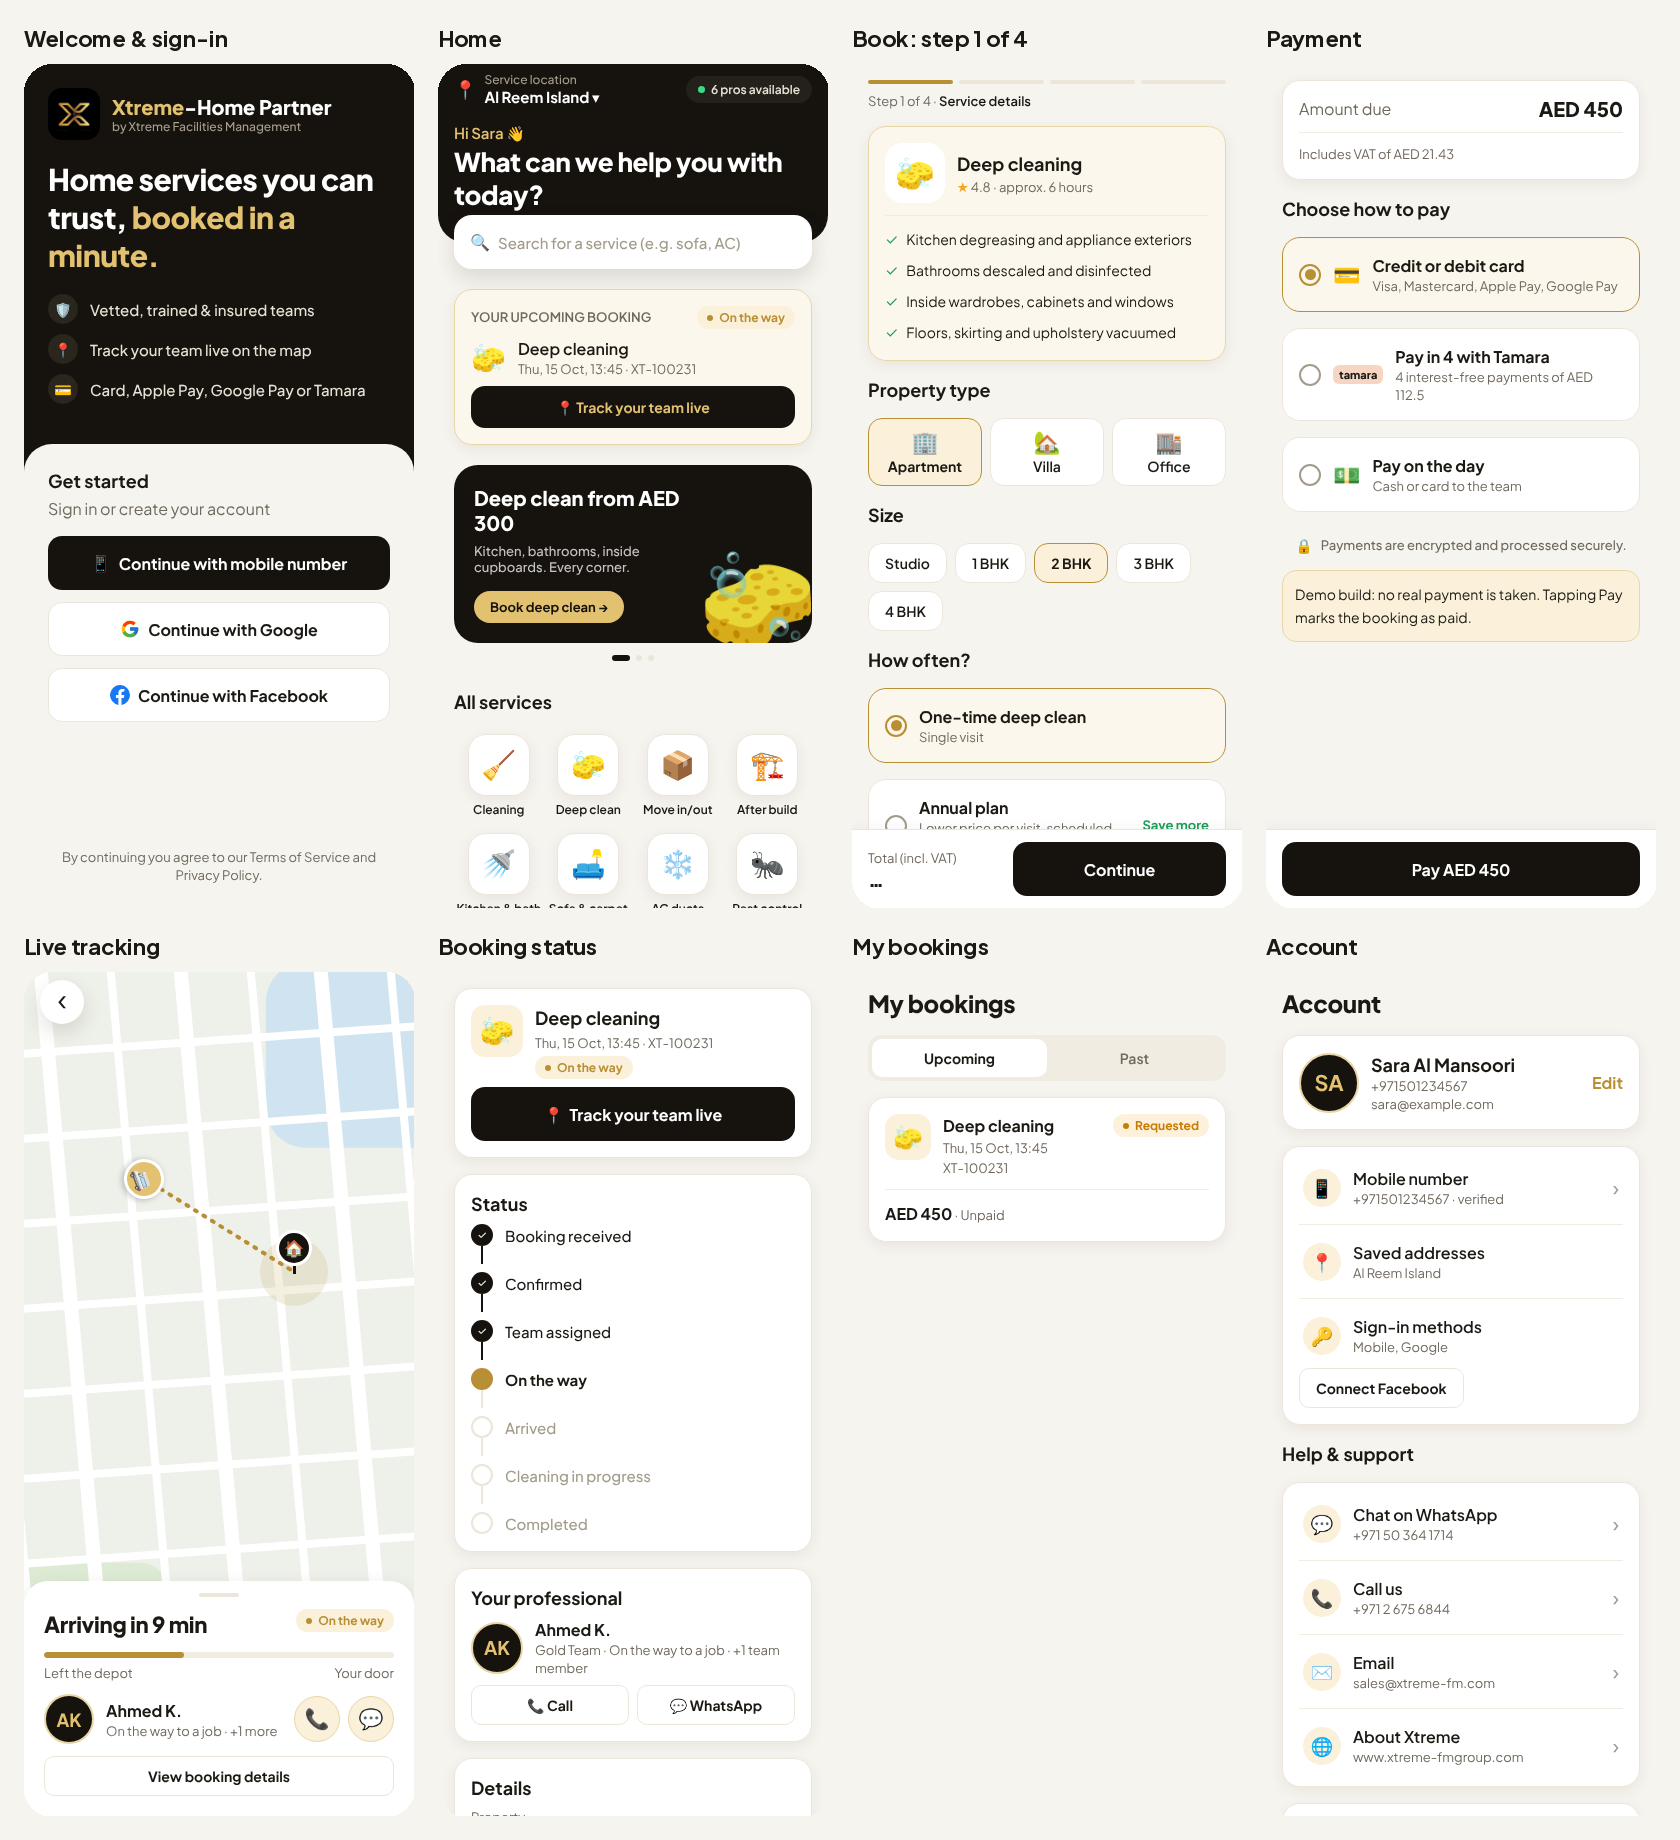
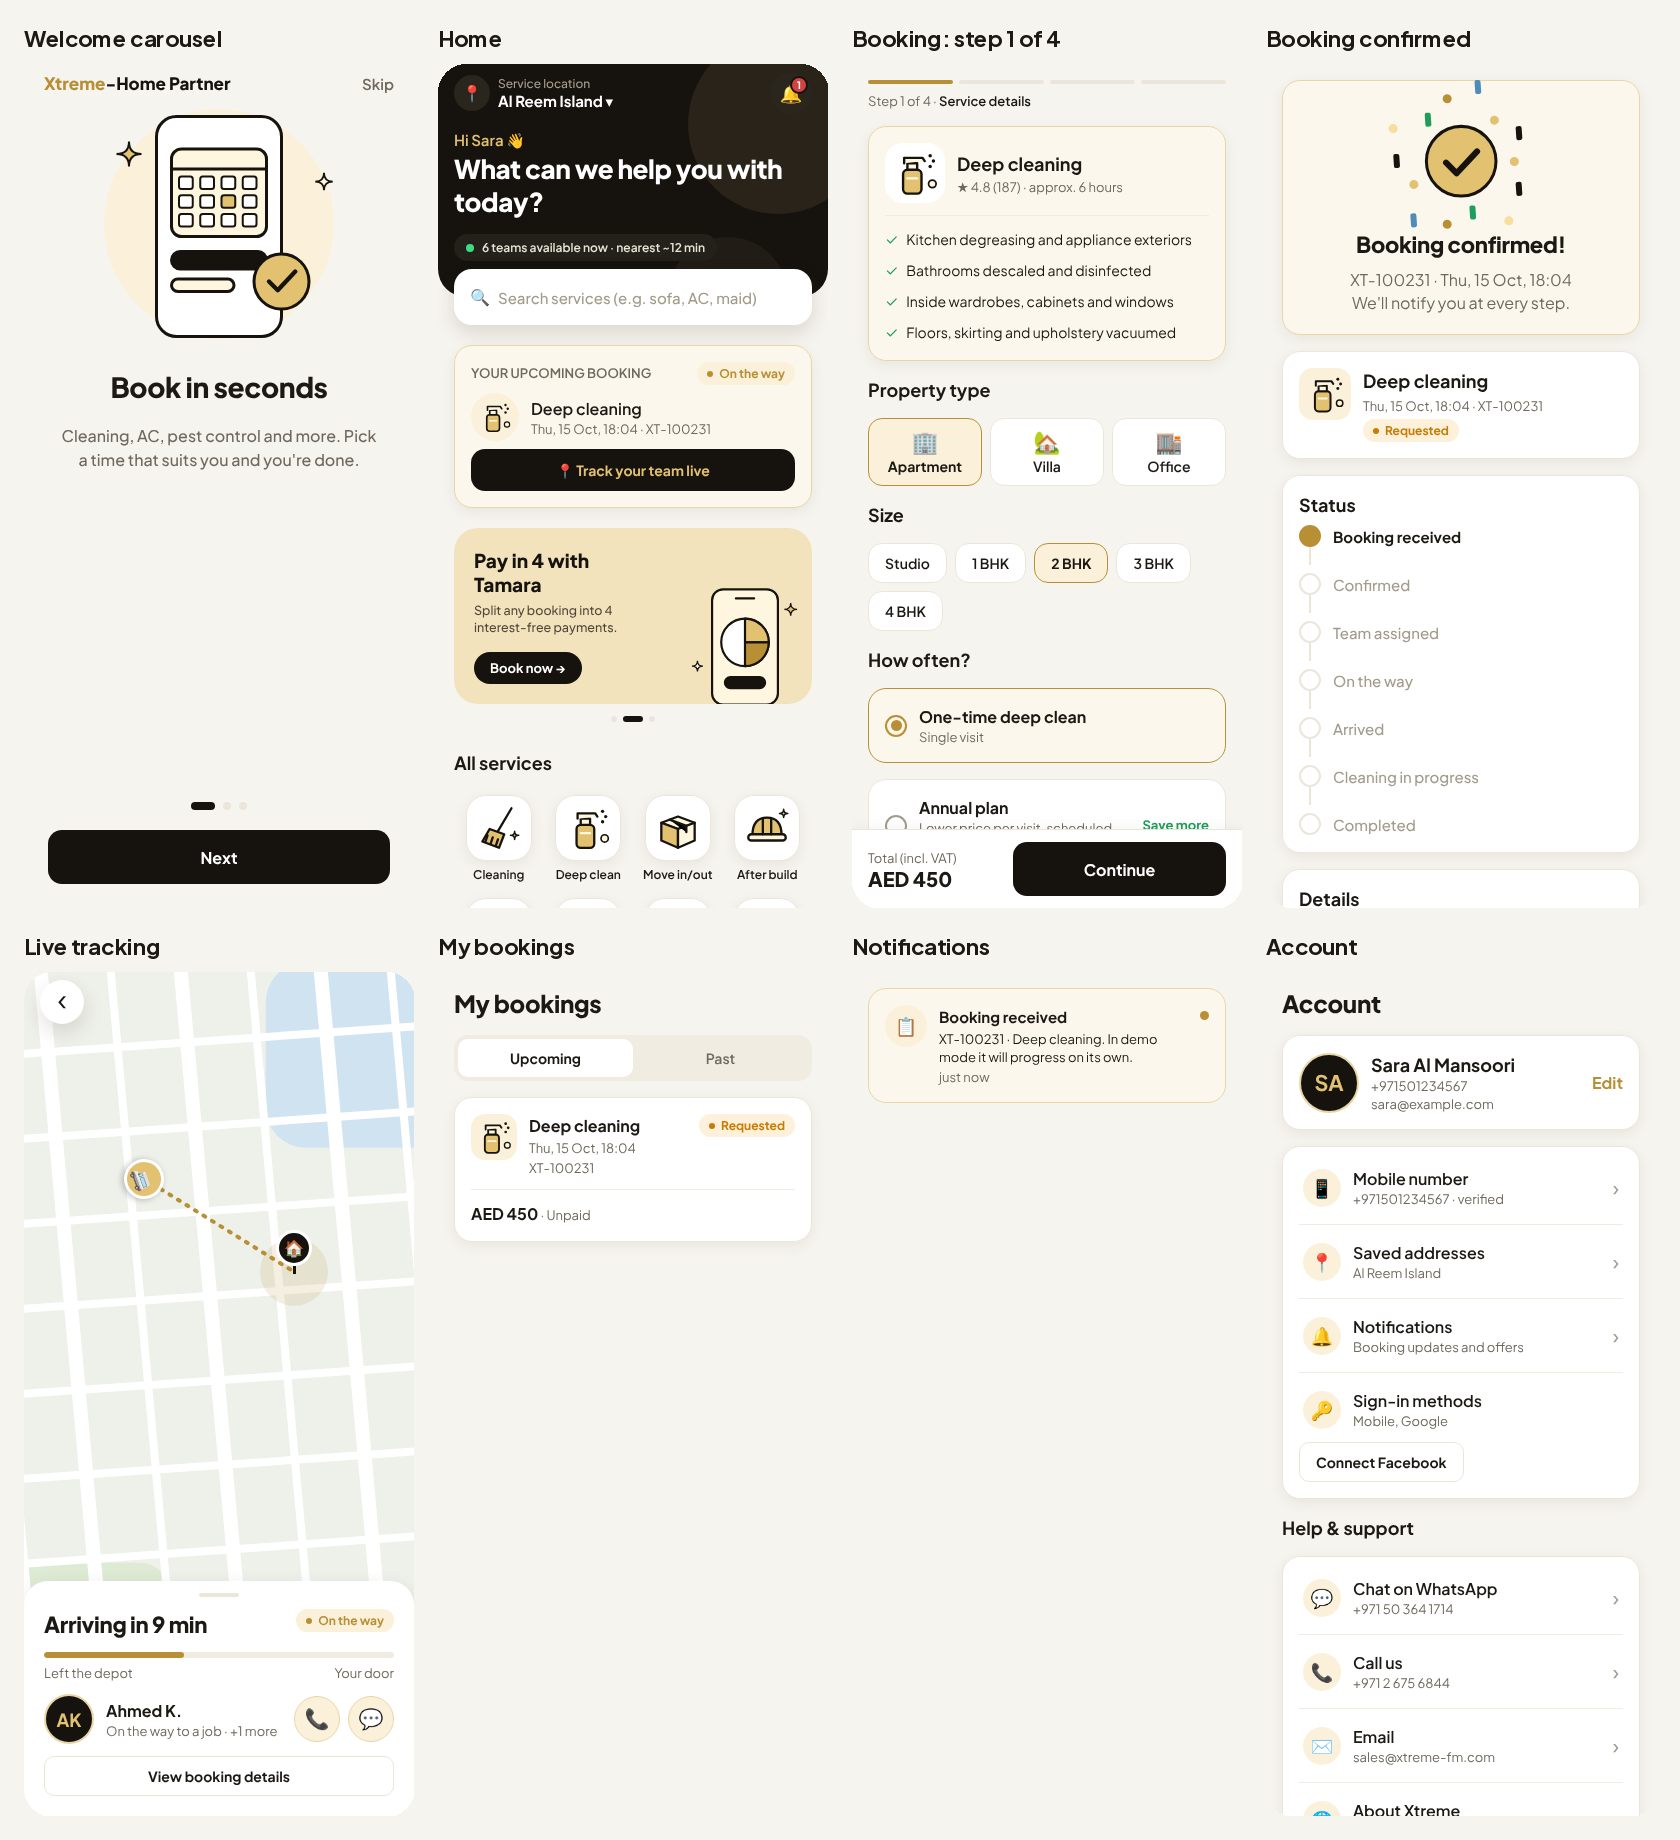
Update app and dashboard preview images
Claude-Session: https://claude.ai/code/session_01X7pS8PYCNiLjxbQWjfgkok

diff --git a/README.md b/README.md
@@ -4,6 +4,8 @@
 
 <img src="docs/design-preview.png" alt="App screens" />
 
+<img src="docs/dashboard-preview.png" alt="Xtreme Dispatch office dashboard" />
+
 <img src="docs/loading-animation.gif" width="300" alt="Loading animation: a mop cleaning a rug" />
 
 | Folder | What it is |
